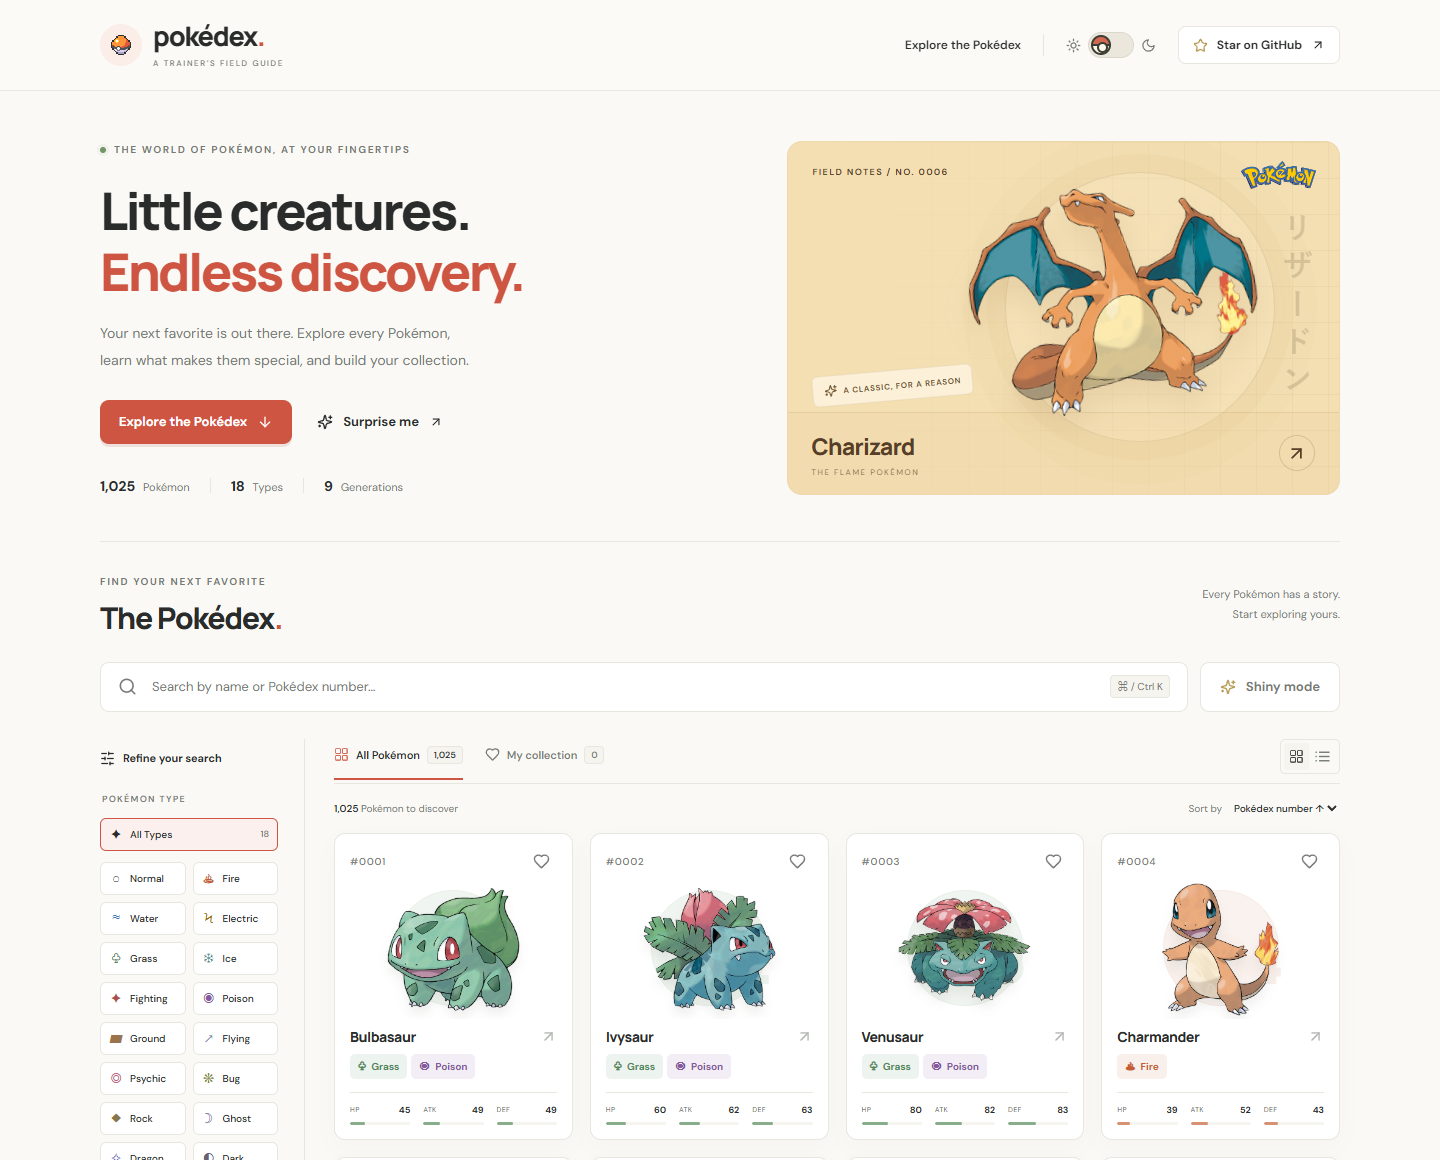
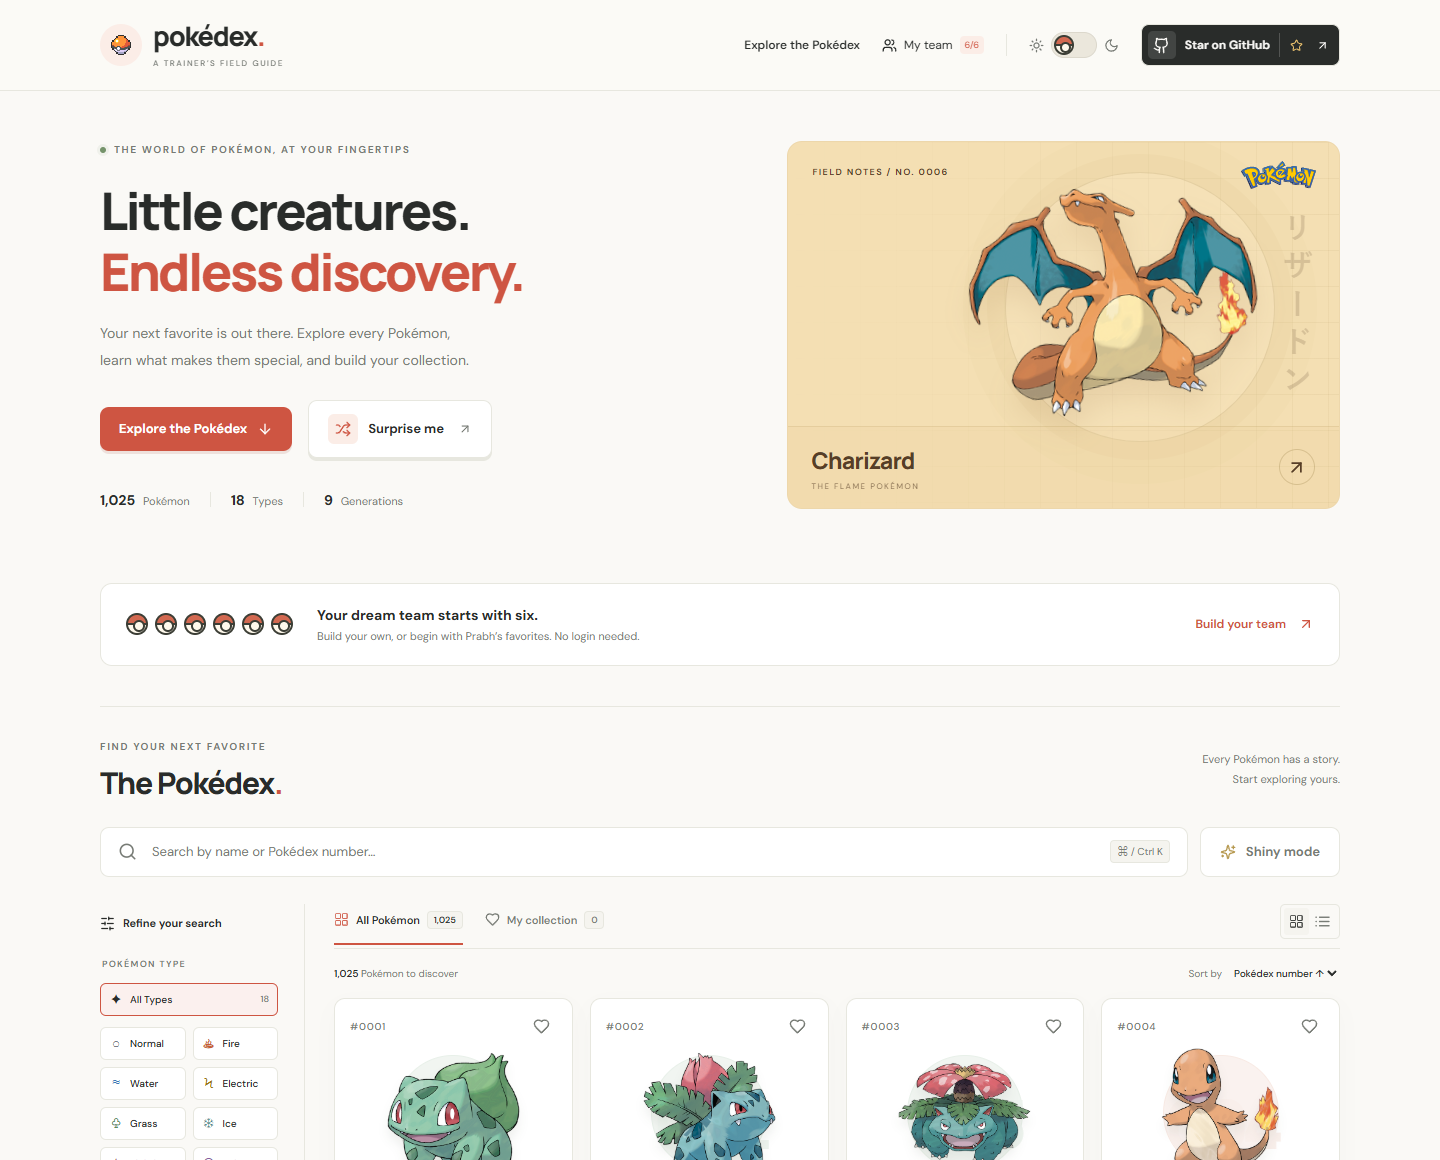
docs: showcase loginless teams with real artwork and privacy notes

diff --git a/README.md b/README.md
@@ -33,6 +33,8 @@ Your next favorite might be in Kanto. Or it might be #1025. Search the **entire 
 | --- | --- |
 | **Find your next favorite** | Search by name or National ID; combine all 18 type filters with nine generations and legendary/mythical categories. |
 | **Make it yours** | Save Pokémon to a local collection with one tap. Your collection survives reloads and syncs across browser tabs. |
+| **Build your six** | Create named, login-free teams, choose a lead, compare type diversity and shared weaknesses, and share a team link. |
+| **Meet the developer’s picks** | Explore Prabh’s personal favorites across nine regions and Gigantamax forms, with editable six-member starter teams. |
 | **Look a little closer** | Open field notes with six base stats, abilities, height, weight, type weaknesses, and evolution connections. |
 | **Chase a different sparkle** | Switch cards and detail artwork to shiny variants, where the source provides them. |
 | **Explore your way** | Sort by name, number, or base-stat total; use compact cards, load more entries, or meet a random Pokémon. |
@@ -49,6 +51,20 @@ Your next favorite might be in Kanto. Or it might be #1025. Search the **entire 
 <br />
 <sub>From a wide desktop to a pocket-sized screen.</sub>
 </div>
+
+## Six companions. Your own story.
+
+Start with **Prabh’s Kanto six**, then make it yours — or create a fresh team from any of the 1,025 Pokémon. Save multiple named teams, reorder your lead, and add companions from cards or field notes. The developer notebook preserves the favorites, shiny choices, and special forms from Prabhmannat’s personal team sheet.
+
+<img src="docs/images/teams.png" alt="Login-free six-member team builder with Prabh’s Kanto favorites, type diversity and shared weaknesses" width="100%" />
+
+<img src="docs/images/developer-picks.png" alt="Prabh’s developer notebook with regional favorites, Mega forms and editable starter sixes" width="100%" />
+
+Teams save **only in your browser**, without an account. Share links include the lineup and team name; anyone with the link can read them and save a separate copy. Clearing browser data removes your local teams. Type summaries are helpful starting points, not a battle simulator: abilities, moves, items, and special battle rules are not modeled.
+
+[Team builder & data notes](docs/TEAMS.md)
+
+<img src="docs/images/mobile-team.png" alt="The six-slot team editor on a pocket-sized mobile screen" width="280" />
 
 ## Your first encounter
 
@@ -77,7 +93,7 @@ npx playwright install chromium
 npm run test:e2e
 ```
 
-The browser suite covers discovery, combined filters, collection persistence, shiny mode, theme changes, modal focus, direct routes, network failure, and mobile layout.
+The browser suite covers discovery, filters, collection persistence, themes, modal focus, direct routes, network failure, team editing, lead ordering, sharing, storage failures, developer presets, and mobile layouts.
 
 ## Under the cover
 
@@ -102,9 +118,9 @@ docs/              Data schema, design notes, and screenshots
 - [Hosting guide](docs/DEPLOYMENT.md)
 - [Contributing](CONTRIBUTING.md)
 
-Run `npm run data:sync` to regenerate the catalog from PokéAPI. The generator intentionally pins the National Pokédex to **1,025 default entries** and validates the result. Alternate forms and battle-specific ability effects are outside this version.
+Run `npm run data:sync` to regenerate the catalog from PokéAPI. The generator pins the National Pokédex to **1,025 default entries** and validates the result. The developer notebook separately supports curated alternate forms; run `npm run data:forms` to refresh their types and stats. Battle-specific ability effects are not simulated.
 
-The index and saved collection remain usable if the species API is unavailable. Artwork and extra field notes need network access. Favorites stay in your browser; there is no account or cloud sync.
+The index, team builder and saved collection remain usable if the species API is unavailable. Artwork and extra field notes need network access. Favorites and teams stay in your browser; there is no account or cloud sync.
 
 ## A small invitation
 
@@ -119,7 +135,8 @@ If this field guide makes you smile, a [GitHub star](https://github.com/PRABHMAN
 <img src="https://raw.githubusercontent.com/PokeAPI/sprites/master/sprites/pokemon/7.png" alt="Squirtle sprite" width="64" />
 <img src="https://raw.githubusercontent.com/PokeAPI/sprites/master/sprites/pokemon/25.png" alt="Pikachu sprite" width="64" />
 
-<sub>An independent fan project. Pokémon © Nintendo / Creatures Inc. / GAME FREAK Inc.<br />
+<sub>Made by Prabhmannat Singh with a lot of time, care, and love.<br />
+An independent fan project. Pokémon © Nintendo / Creatures Inc. / GAME FREAK Inc.<br />
 See [asset attribution and original project credit](ATTRIBUTION.md). No affiliation or endorsement is implied.</sub>
 
 </div>

diff --git a/docs/TEAMS.md b/docs/TEAMS.md
@@ -1,0 +1,34 @@
+# Your six · Team builder
+
+Open `/teams` to create a team without signing in. A new browser starts with **Prabh’s Kanto six**, selected from his supplied personal favorites sheet. The original lists contain more than six picks per region; starter sixes are editable selections, not a claim that the document specifies only six members.
+
+## Your adventure
+
+- Create and rename up to 24 local teams, each with zero to six distinct Pokémon species.
+- Search the full National Pokédex and filter companions by type or generation.
+- Remove companions, move them earlier or later, and choose the first slot as your lead.
+- Add Pokémon from the explorer, detail notes, or developer notebook. Full teams link back to the editor so you can make room.
+- Copy a share link. Importing a shared team requires pressing **Save shared team** and never silently replaces an existing lineup.
+- Use `/picks?region=hoenn` (or another notebook region) for personal favorites and one-click starter teams. The tenth group is Gigantamax.
+
+## Source and forms
+
+`src/data/developerPicks.js` transcribes the favorites from the owner's 15-page *My Pokemon Team.pdf*. The original PDF and extracted page images are intentionally not published. Region groupings follow the source even when a favorite originated in another generation.
+
+Every pick records its National ID, display label, artwork ID, and shiny choice. Curated Mega, Alolan, Sky, Complete, and Gigantamax variants use their specific artwork and PokéAPI form types/stats from `src/data/pickForms.json`. The giant Golurk favorite is an anime reference, not an official alternate stat record, and is labeled accordingly. **View base species** links show National Pokédex notes, not form-specific abilities or moves.
+
+Run `npm run data:forms` to regenerate curated form metadata from the public PokéAPI CSV source. This does not expand the 1,025-entry National catalog.
+
+## Storage, privacy and sharing
+
+`pokedex:teams:v1` holds a versioned state in localStorage: active team ID, team names, optional preset source, and member keys. State is validated before restoration. Malformed JSON, unknown members, duplicate species and oversized lineups are rejected. Valid changes sync between tabs on the same origin. If storage is blocked, the editor remains usable for the current session and displays a warning.
+
+There is no server, account, login, or cloud backup. Clearing browser storage or using a different browser/origin means the teams will not be available there. Keep a share link if you want a portable copy. Share URLs contain the team name and member keys in plain text; do not put private information in a team name. A link is a snapshot, not live collaborative editing.
+
+## Insights are not a battle simulator
+
+The summary shows distinct types, average base-stat total, and attacking types that are super-effective against at least three companions. Dual-type effectiveness and immunities are multiplied using the type chart. Abilities, moves, items, levels, EVs, IVs, transformations and battle mechanics are outside scope. In particular, a collection of multiple Mega/Gigantamax favorites is a personal showcase, not a promise of competitive battle legality.
+
+## Verification
+
+`npm test` checks every pick and starter lineup, form metadata, duplicate prevention, capacity, reducer edits, invalid restoration, sharing, and insight calculations. `npm run test:e2e` checks actual editing, reload persistence, lead ordering, deletion confirmation, clipboard sharing, import confirmation, invalid links, blocked storage, regional presets, filters and mobile overflow. README captures use original live artwork, not test fixtures or AI-generated visuals.
